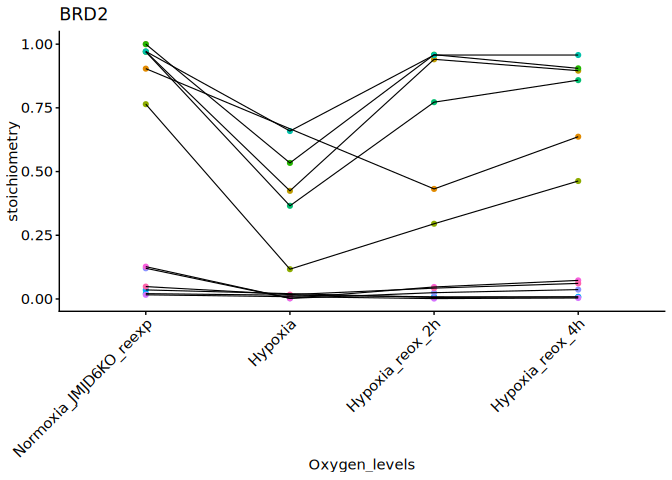
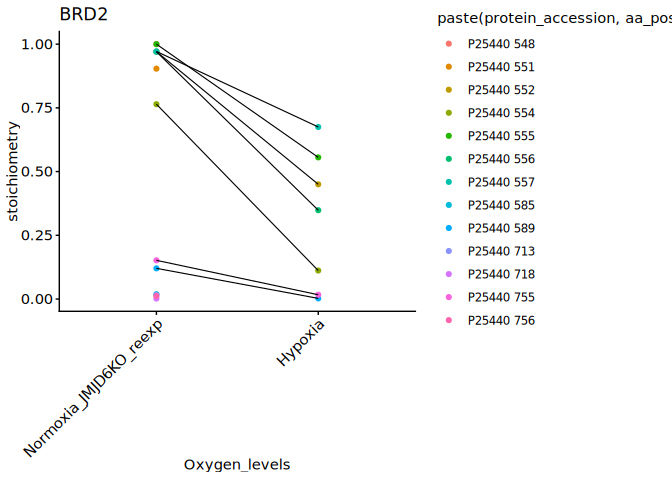
plots_modified_BRD234_md_updated

diff --git a/R/p2_lysine-rich-domain-LCMS/p2-5_MS_KR1.md b/R/p2_lysine-rich-domain-LCMS/p2-5_MS_KR1.md
@@ -1,7 +1,7 @@
 2-5. Lysine hydroxylations in hypoxia and normoxia
 ================
 Yoichiro Sugimoto and Pallavi Kesavan
-27 November, 2025
+10 December, 2025
 
 - [Environment setup](#environment-setup)
 - [2.5.1 Install,load essential functions and
@@ -252,8 +252,8 @@ gc()
 ```
 
     ##            used  (Mb) gc trigger  (Mb) max used  (Mb)
-    ## Ncells  4296002 229.5    8173422 436.6  8173422 436.6
-    ## Vcells 21528977 164.3   64858119 494.9 64858096 494.9
+    ## Ncells  4296016 229.5    8173162 436.5  8173162 436.5
+    ## Vcells 21529212 164.3   64858526 494.9 64857779 494.9
 
 # 2.5.4 Plotting Stoichiometry values of hypoxia and normoxia data (+ diagnostic ion)
 
@@ -268,10 +268,10 @@ read_stoic_data <- function(prefix, pre_prefix, post_fix = "", dir_path){
 
 ## Read stoichiometry data for MS_KR1 data 
 MS_KR1_stoic_dt <- read_stoic_data(
-  prefix = "MS_KR_1_",
+  prefix = "MS_KR_1_noH2O_",
   pre_prefix = "",
   post_fix = "_DI",
-  dir_path = file.path(results.dir, "p2-analysis-setting", "MS_KR_1"))
+  dir_path = file.path(results.dir, "p2-analysis-setting", "MS_KR_1_noH2O"))
 
 
 #Filter data table with presence of diagnostic_peak and WT stoichiometry values
@@ -307,6 +307,24 @@ MS_KR1_stoic_dt[, `:=`(
 )]
 
 
+## Reoxygentaion samples were removed from MAxQunat analysis in MS_KR_1_noH2O data
+# new column with simplified version of sample names 
+MS_KR1_stoic_dt[, `:=`(
+  Oxygen_levels = fcase(
+    grepl("^HeLaWT_NA_N_NA", sample_name), "Normoxia_WT",
+    grepl("^HeLaiJMJD6_noDox_N_NA", sample_name), "Normoxia_JMJD6KO",
+    grepl("^HeLaiJMJD6_Dox_01O224h_NA", sample_name), "Hypoxia", 
+    grepl("^HeLaiJMJD6_Dox_N_NA", sample_name), "Normoxia_JMJD6KO_reexp", 
+    default = NA_character_
+  ) %>% factor(levels = c("Normoxia_WT", "Normoxia_JMJD6KO", "Normoxia_JMJD6KO_reexp", "Hypoxia") %>% rev) # categorize data and order levels 
+)]
+
+# categorize data according to sample names 
+MS_KR1_stoic_dt[, `:=`(
+  sample_name =  
+    factor(sample_name, levels = c("HeLaWT_NA_N_NA", "HeLaiJMJD6_noDox_N_NA", "HeLaiJMJD6_Dox_N_NA", "HeLaiJMJD6_Dox_01O224h_NA"))
+)]
+
 # BRD4 
 plot_ptm_stoichiometry(
   MS_KR1_stoic_dt[sample_name %in% c("HeLaWT_NA_N_NA","HeLaiJMJD6_noDox_N_NA", "HeLaiJMJD6_Dox_N_NA", "HeLaiJMJD6_Dox_01O224h_NA")], accession = "O60885", plot_range = c(531, 581), all.protein.bs, sample_colors = NA,
@@ -336,9 +354,7 @@ plot_ptm_stoichiometry(
 # 2.5.5 Plotting Stoichiometry of hypoxia and normoxia data with re-expression of JMJD6 (+ diagnostic ion)
 
 ``` r
-MS_KR1_stoic_dt <- droplevels(MS_KR1_stoic_dt[
-  Oxygen_levels %in% c("Normoxia_JMJD6KO_reexp", "Hypoxia", "Hypoxia_reox_2h", "Hypoxia_reox_4h")])
-
+MS_KR1_stoic_dt <-  droplevels(MS_KR1_stoic_dt[!sample_name %in% c("HeLaWT_NA_N_NA", "HeLaiJMJD6_noDox_N_NA")])
 
 # Plot - JMJD6 re-expression - BRD4
 ggplot(
@@ -353,7 +369,7 @@ ggplot(
   geom_line(linewidth = 0.4) +
   labs(title = "BRD4") +
   theme(axis.text.x = element_text(angle = 45, hjust = 1)) + 
-  theme(legend.position="none") +
+  theme(legend.position="right") +
   scale_x_discrete(limits = rev(levels(MS_KR1_stoic_dt$Oxygen_levels)))
 ```
 
@@ -373,7 +389,7 @@ ggplot(
   geom_line(linewidth = 0.4) +
   labs(title = "BRD3") +
   theme(axis.text.x = element_text(angle = 45, hjust = 1)) + 
-  theme(legend.position="none") +
+  theme(legend.position="right") +
   scale_x_discrete(limits = rev(levels(MS_KR1_stoic_dt$Oxygen_levels)))
 ```
 
@@ -393,11 +409,47 @@ ggplot(
   geom_line(linewidth = 0.4) +
   labs(title = "BRD2") +
   theme(axis.text.x = element_text(angle = 45, hjust = 1)) + 
-  theme(legend.position="none") +
+  theme(legend.position="right") +
   scale_x_discrete(limits = rev(levels(MS_KR1_stoic_dt$Oxygen_levels)))
 ```
 
 ![](p2-5_MS_KR1_files/figure-gfm/JMJD6_reexpression-3.png)<!-- -->
+
+``` r
+## Boxplot
+
+install.packages("viridis")
+```
+
+    ## Installing package into '/home/pkesava/R/x86_64-pc-linux-gnu-library/4.5'
+    ## (as 'lib' is unspecified)
+
+``` r
+library(viridis)
+```
+
+    ## Loading required package: viridisLite
+
+``` r
+# Plot 1 - JMJD6 re-expression - BRD2
+ggplot(
+  data = MS_KR1_stoic_dt[gene_name %in% c("BRD4") & diagnostic_peak == "+"],
+  aes(
+    x = Oxygen_levels,
+    y = stoichiometry
+  )
+) +
+  stat_boxplot(geom = "errorbar", width = 0.25) + 
+  geom_boxplot(outlier.colour="red", outlier.shape=8,
+               outlier.size=4) +
+  geom_jitter(color= "steelblue", size=1.7, alpha=1) +
+  labs(title = "BRD4") +
+  theme(axis.text.x = element_text(angle = 45, hjust = 1)) + 
+  theme(legend.position="none") +
+  scale_x_discrete(limits = rev(levels(MS_KR1_stoic_dt$Oxygen_levels)))
+```
+
+![](p2-5_MS_KR1_files/figure-gfm/JMJD6_reexpression-4.png)<!-- -->
 
 # Session information
 
@@ -415,7 +467,7 @@ sessioninfo::session_info()
     ##  collate  C.UTF-8
     ##  ctype    C.UTF-8
     ##  tz       Europe/Berlin
-    ##  date     2025-11-27
+    ##  date     2025-12-10
     ##  pandoc   3.4 @ /usr/lib/rstudio-server/bin/quarto/bin/tools/x86_64/ (via rmarkdown)
     ##  quarto   1.6.42 @ /usr/lib/rstudio-server/bin/quarto/bin/quarto
     ## 
@@ -439,6 +491,7 @@ sessioninfo::session_info()
     ##  GenomeInfoDbData    1.2.14     2025-09-24 [1] Bioconductor
     ##  ggplot2           * 4.0.0      2025-09-11 [1] CRAN (R 4.5.1)
     ##  glue                1.8.0      2024-09-30 [1] CRAN (R 4.5.1)
+    ##  gridExtra           2.3        2017-09-09 [1] CRAN (R 4.5.1)
     ##  gtable              0.3.6      2024-10-25 [1] CRAN (R 4.5.1)
     ##  htmltools           0.5.8.1    2024-04-04 [1] CRAN (R 4.5.1)
     ##  httr                1.4.7      2023-08-15 [1] CRAN (R 4.5.1)
@@ -472,6 +525,8 @@ sessioninfo::session_info()
     ##  timechange          0.3.0      2024-01-18 [1] CRAN (R 4.5.1)
     ##  UCSC.utils          1.4.0      2025-04-15 [1] Bioconduc~
     ##  vctrs               0.6.5      2023-12-01 [1] CRAN (R 4.5.1)
+    ##  viridis           * 0.6.5      2024-01-29 [1] CRAN (R 4.5.1)
+    ##  viridisLite       * 0.4.2      2023-05-02 [1] CRAN (R 4.5.1)
     ##  withr               3.0.2      2024-10-28 [1] CRAN (R 4.5.1)
     ##  xfun                0.53       2025-08-19 [1] CRAN (R 4.5.1)
     ##  XVector           * 0.48.0     2025-04-15 [1] Bioconduc~
